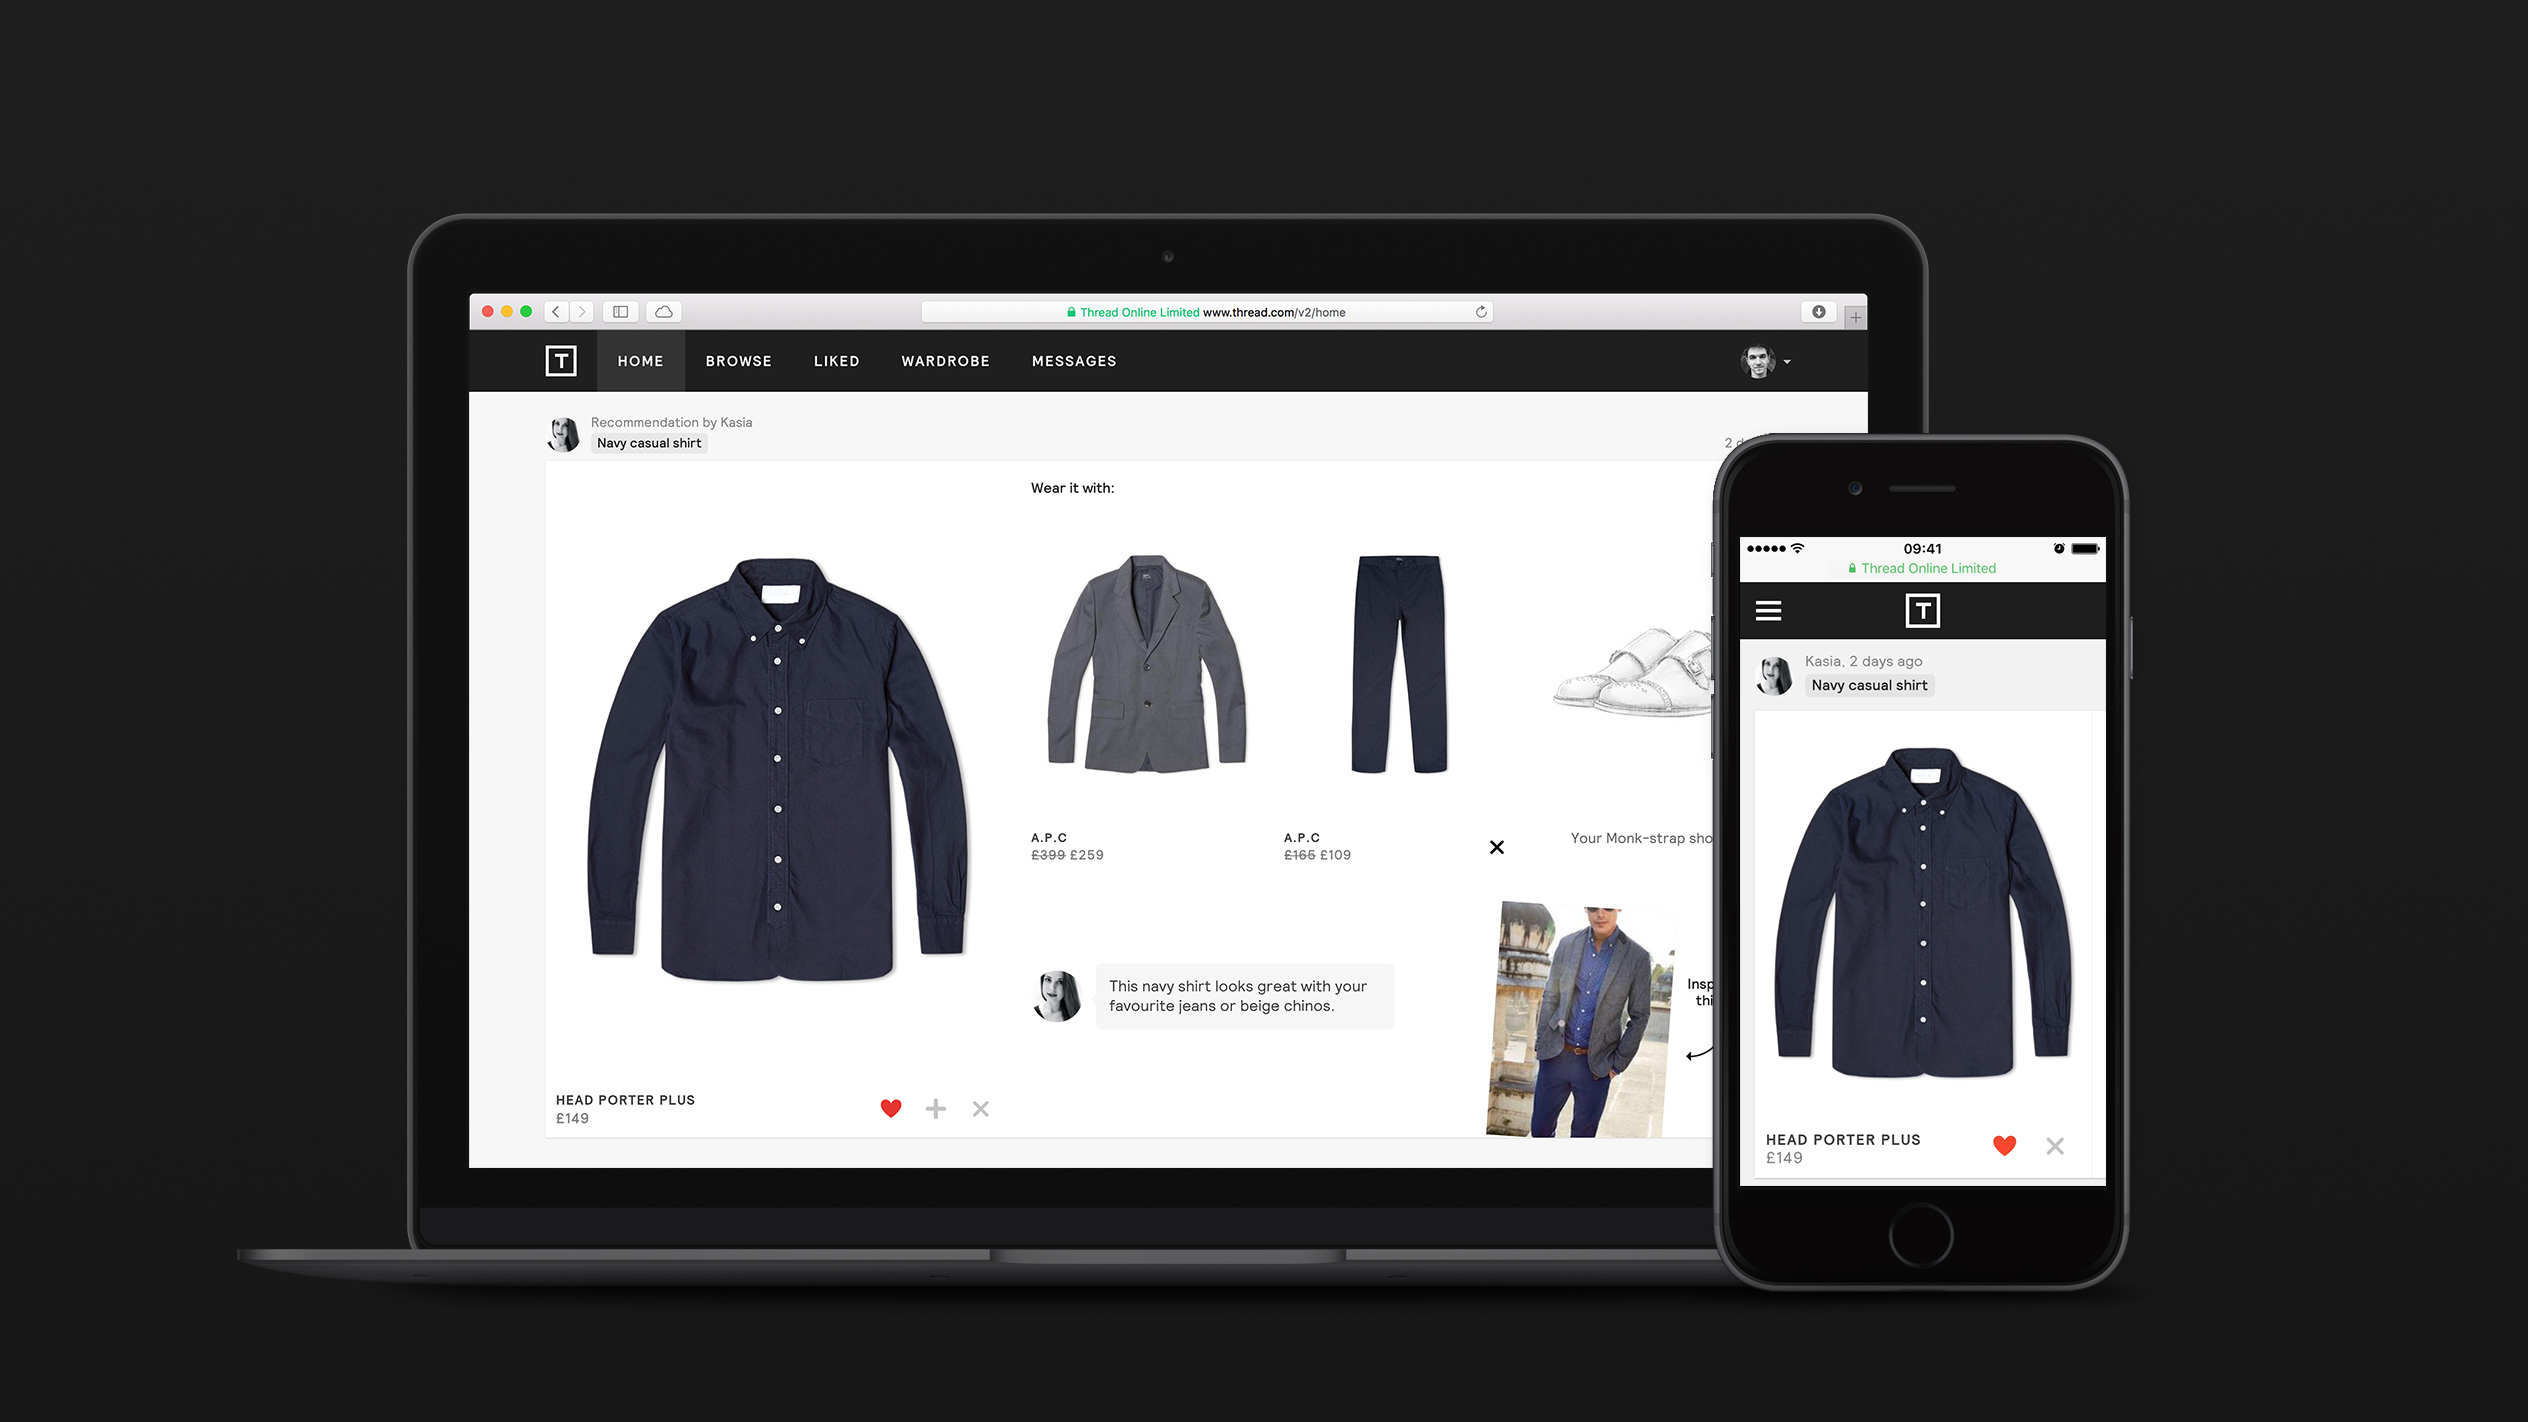
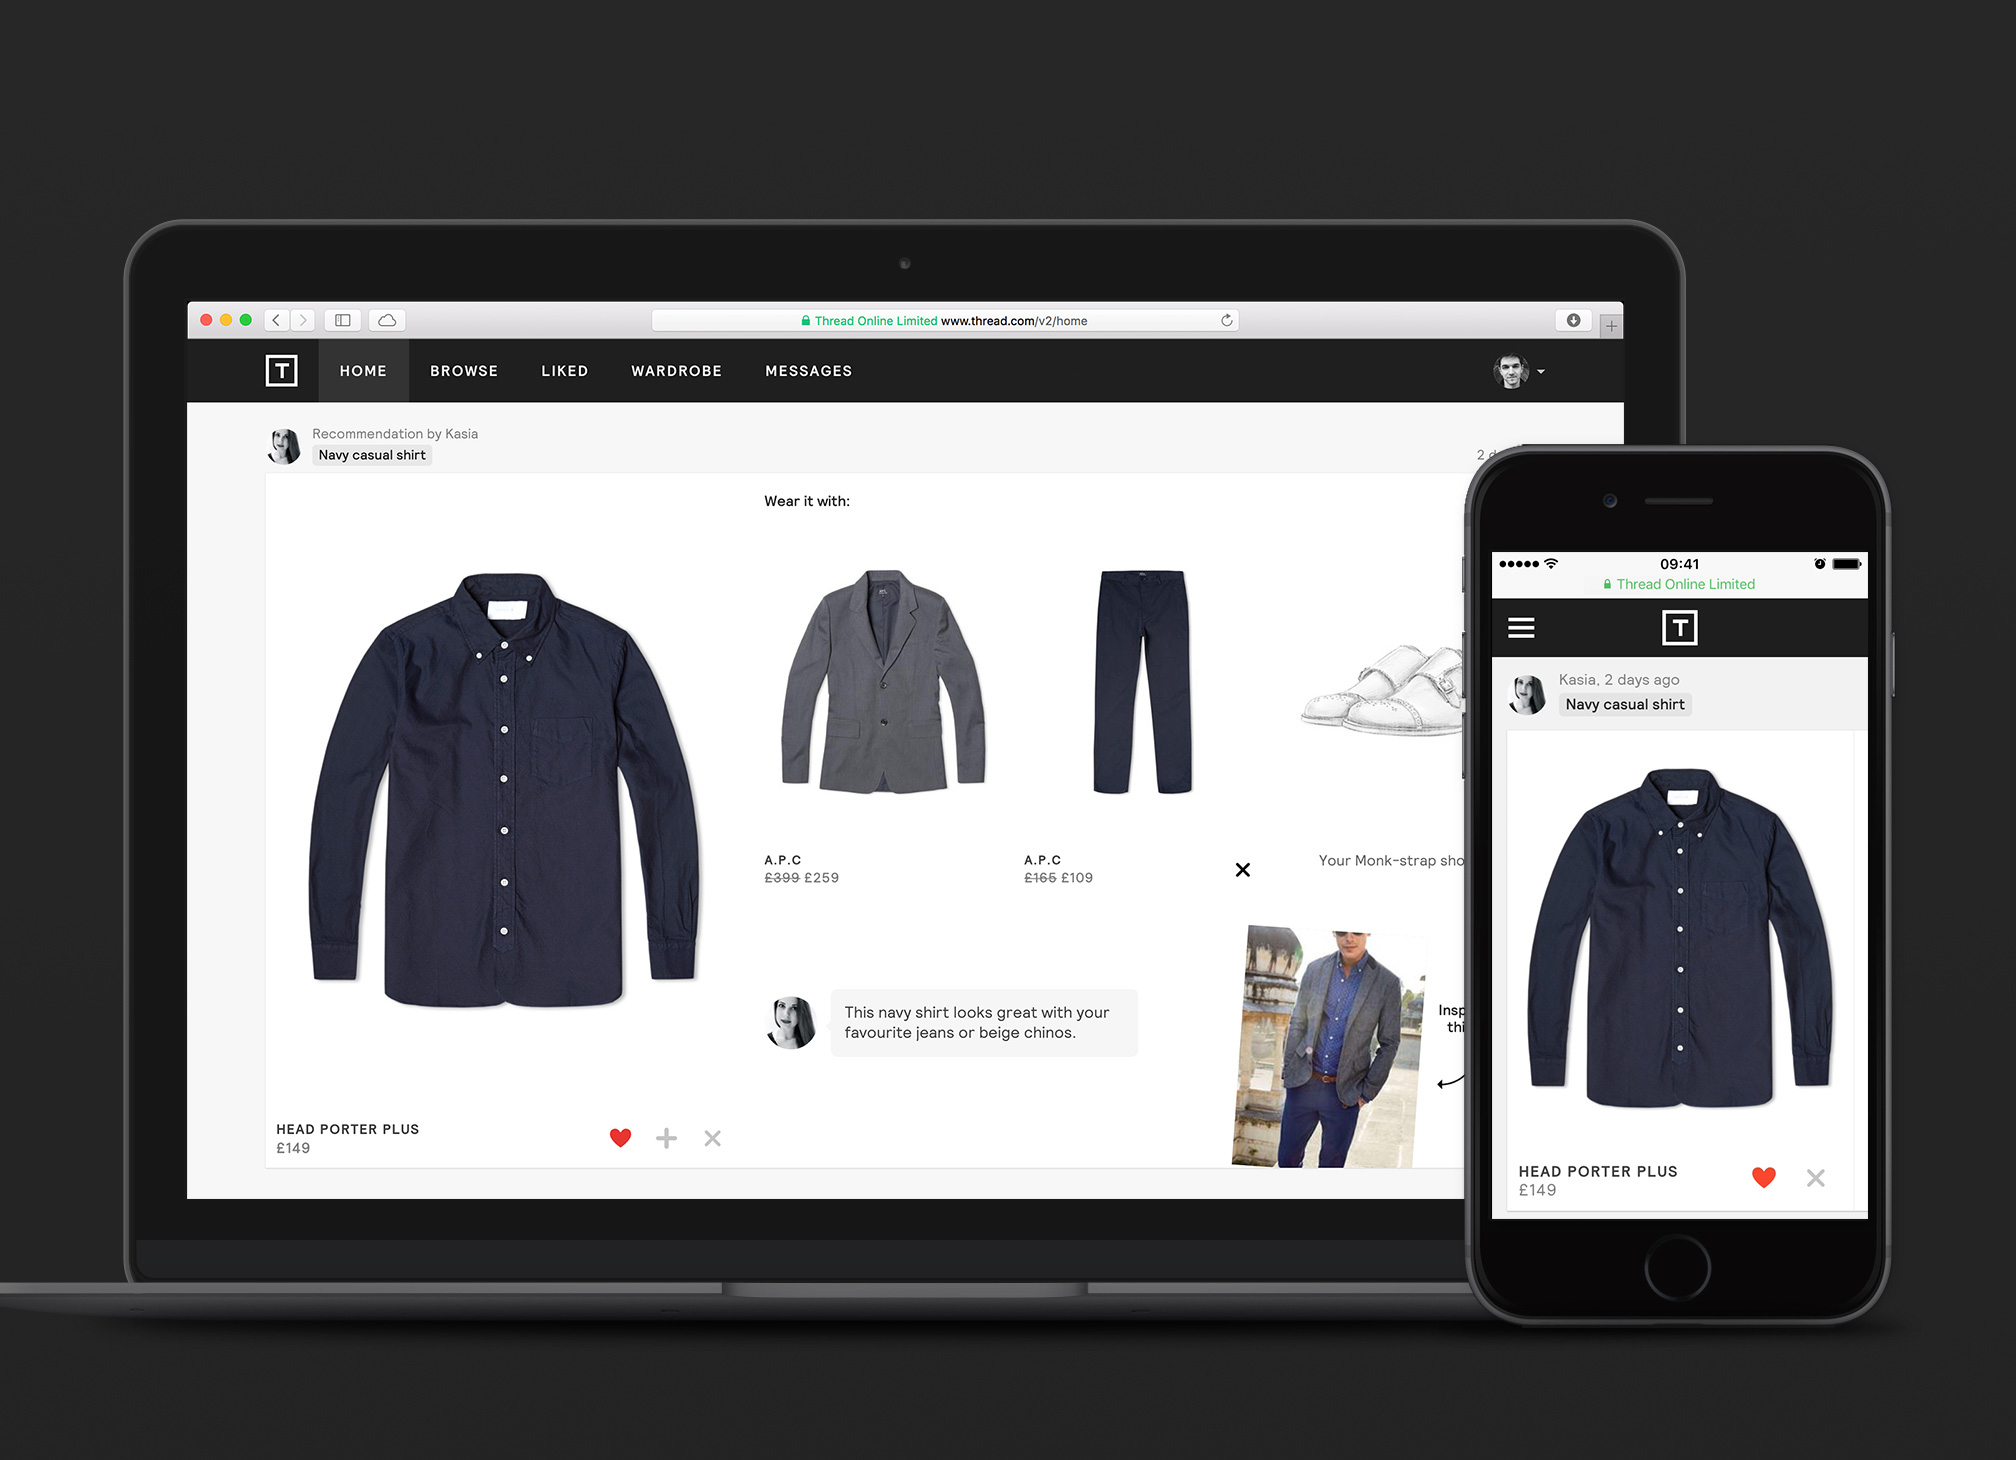
Taller home image

diff --git a/work/thread-v2/index.php b/work/thread-v2/index.php
@@ -17,7 +17,7 @@
 <div class="project" id="thread-v2">
 
   <!-- Home desktop and mobile interface image -->
-  <img class="clear side" width="1008" height="669"
+  <img class="clear side" width="1008" height="730"
     src="/media/images/thread-v2-home.jpg"
     alt="Home desktop and mobile interface image">
   <div class="txt">
